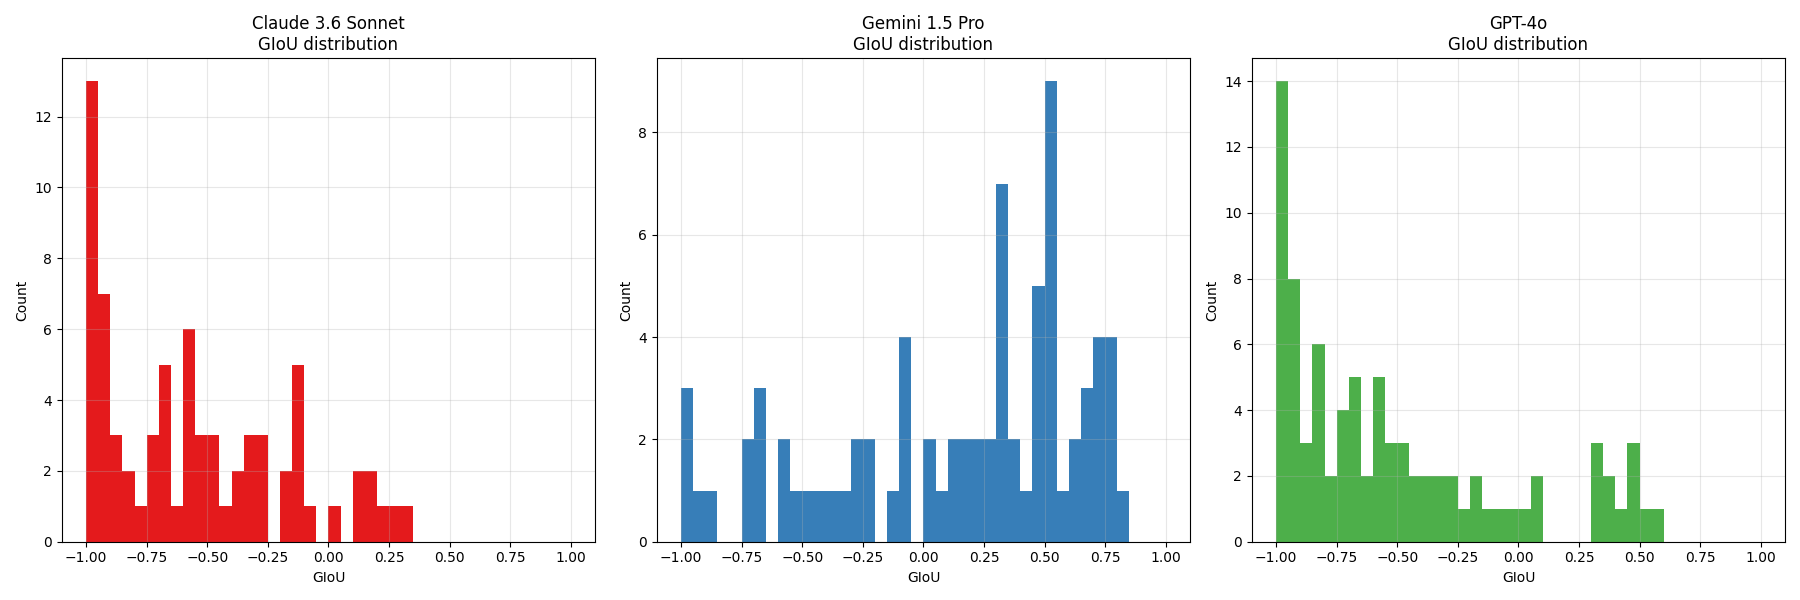
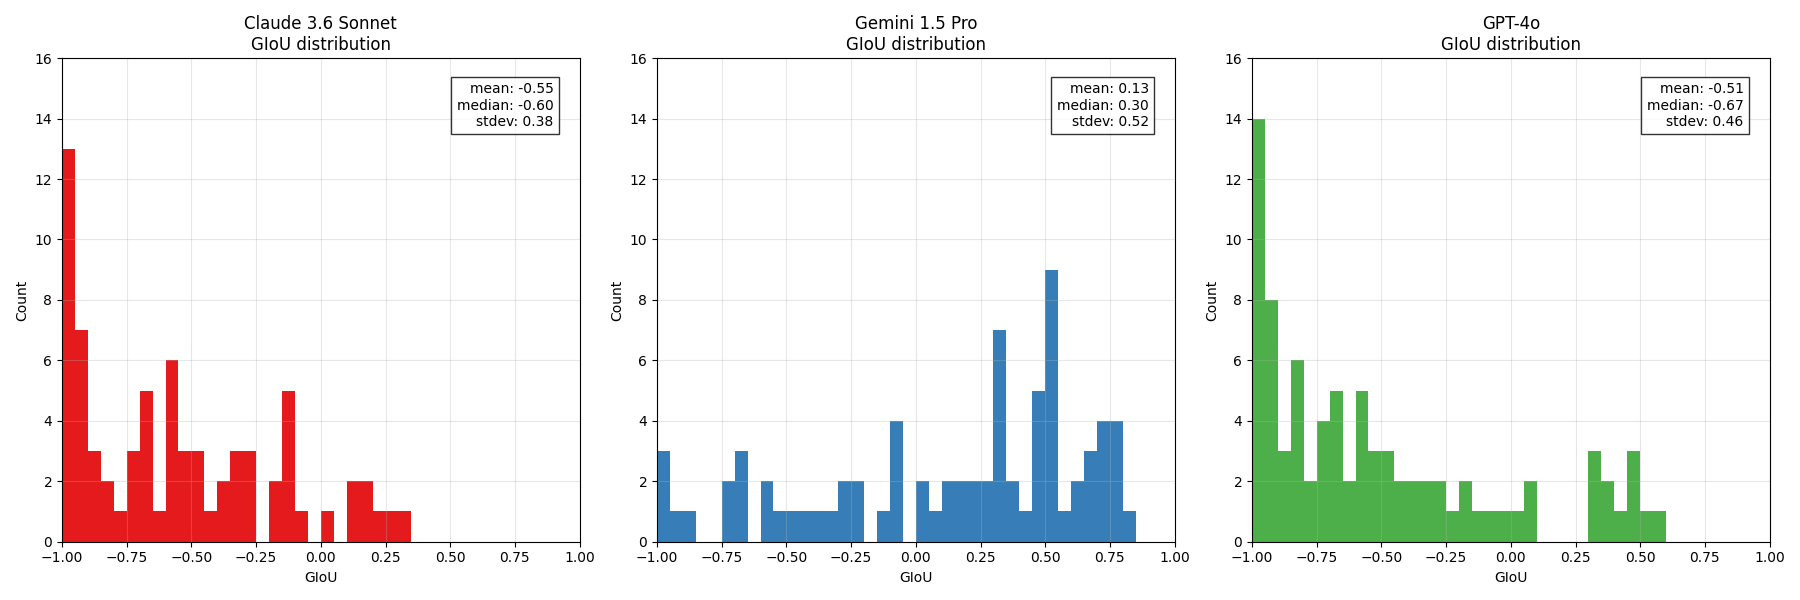
Better giou histogram

diff --git a/src/wimmelbench/stats.py b/src/wimmelbench/stats.py
@@ -70,8 +70,23 @@ def plot_giou_distribution(
             color=MODEL_COLORS[model_name],
         )
 
+        # Add statistics text box
+        stats_text = f"mean: {mean(gious):.2f}\nmedian: {median(gious):.2f}\nstdev: {stdev(gious):.2f}"
+        axes[idx].text(
+            0.95,
+            0.95,
+            stats_text,
+            transform=axes[idx].transAxes,
+            bbox=dict(facecolor="white", alpha=0.8),
+            verticalalignment="top",
+            horizontalalignment="right",
+            fontsize=10,
+        )
+
         axes[idx].set_xlabel("GIoU")
         axes[idx].set_ylabel("Count")
+        axes[idx].set_xlim(-1, 1)
+        axes[idx].set_ylim(0, 16)
         axes[idx].set_title(f"{model_name}\nGIoU distribution")
         axes[idx].grid(True, alpha=0.3)
 
@@ -135,6 +150,7 @@ def plot_correlations(
             transform=axes[0, col].transAxes,
             bbox=dict(facecolor="white", alpha=0.8),
             horizontalalignment="right",
+            verticalalignment="bottom",
         )
         axes[0, col].set_ylim(-1, 1)
         axes[0, col].set_xscale("log")
